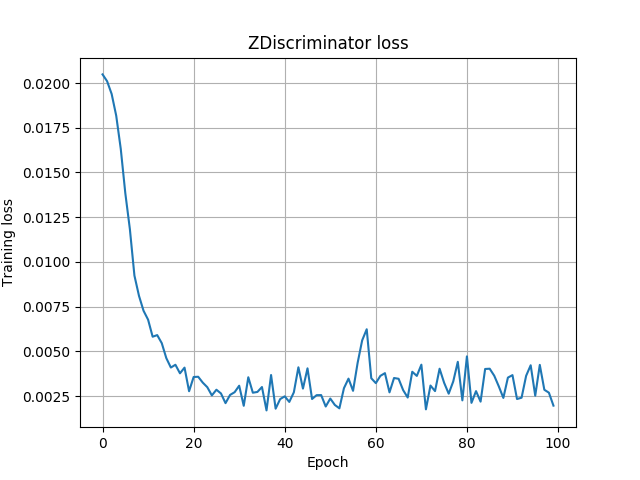
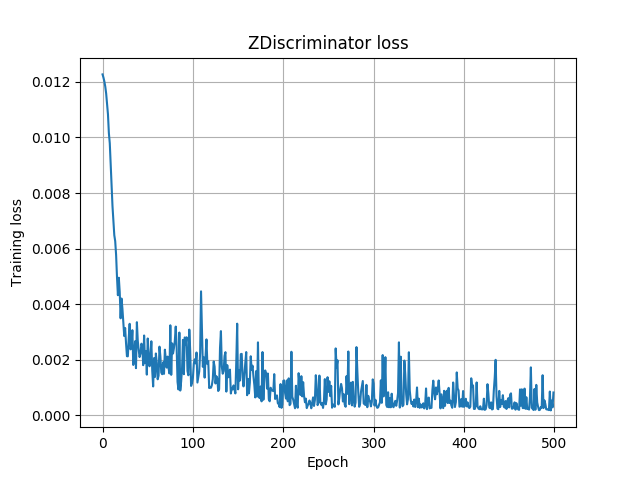
New debug

diff --git a/log/prosivic/debug/configuration.py b/log/prosivic/debug/configuration.py
@@ -33,10 +33,10 @@ class Configuration(object):
 
     # dataset specific options below
     if dataset == "prosivic":
-        training_mode = "GPND_default" # Options: "autoencoder", "GPND_default"
+        training_mode = ("autoencoder","GPND_default")[1] # Options: "autoencoder", "GPND_default"
         # Hyperparameters
         betas = (0.5,0.999) # adam solver standard is (0.5, 0.999), GPND standard is (0.9,0.999)
-        n_train_epochs = 100
+        n_train_epochs = 500
         n_epochs_between_lr_change = int(n_train_epochs * 1/2)
         lr_drop_factor = 10
         num_sample_epochs = 10
@@ -62,9 +62,9 @@ class Configuration(object):
         model_name = "_".join([inliers_name, architecture])
 
         batch_size = 64
-        test_batch_size = 16 # Jacobian computations require smaller batches
+        test_batch_size = 8 # Jacobian computations require smaller batches
         use_batchnorm = True
-        data_div = 50
+        data_div = 60
         n_train = 6785 // data_div
         n_val = 840 // data_div
         n_test = 500*2 // data_div # for GPND algorithm, the test set is split into val and test set during testing, since the valset contains outliers in order to compute an optimal threshold. This is used to compute some of the output values, but not AUPRIN or AUROC, which are threshold independent.
@@ -78,11 +78,11 @@ class Configuration(object):
 
 
     elif dataset == "dreyeve":
-        training_mode = "autoencoder"
+        training_mode = ("autoencoder","GPND_default")[1]
         architecture = "0_6_1_16_512_5_2_2"
         inliers_name = "sunny_highway"
         outliers_name = "rainy_highway"
-        n_dense_units = [256]
+        n_dense_units = None
         zd_n_layers = 3
         zd_out_units = [256,256,1]
 
@@ -98,15 +98,16 @@ class Configuration(object):
         n_train_epochs = 500
         n_epochs_between_lr_change = int(n_train_epochs * 1/2)
         lr_drop_factor = 10
-        num_sample_epochs = 5
+        num_sample_epochs = 10
         batch_size = 64
-        test_batch_size = 16 # Jacobian computations require smaller batches
-        lr_g = 0.002
-        lr_e = 0.002
-        lr_d = 0.002
-        lr_ge = 0.002
-        lr_zd = 0.002
-        rec_loss_weight = 10
+        test_batch_size = 8 # Jacobian computations require smaller batches
+        lr_g = 0.001
+        lr_e = 0.001
+        lr_d = 0.001
+        lr_ge = 0.001
+        lr_zd = 0.001
+        rec_loss_weight = 1
+        weight_g_loss = 1
 
         # Dataset options
         data_div = 1
@@ -121,7 +122,6 @@ class Configuration(object):
         test_in_folder =  "../weather_detection_data/dreyeve/sunny_highway_countryside_morning_evening_vs_rainy_highway_countryside_morning_evening/test/in/"
         test_out_folder = "../weather_detection_data/dreyeve/sunny_highway_countryside_morning_evening_vs_rainy_highway_countryside_morning_evening/test/out/"
 
-    
     elif dataset == "mnist":
         batch_size = 128
         test_batch_size = batch_size # Jacobian computations require smaller batches
@@ -145,6 +145,6 @@ class Configuration(object):
         out_filenames = loadbdd100k.get_namelist_from_file(out_file)
         norm_spec = [["weather", ["clear","partly cloudy", "overcast"]],["scene", "highway"],["timeofday", "daytime"]]
         out_spec = [["weather", ["rainy", "snowy", "foggy"]],["scene", "highway"],["timeofday",["daytime","dawn/dusk","night"]]]
-# Training logged at Fri, 14 Dec 2018 12:52:04 UTC
-# Total training time:	0h1m43.1s
-# Average time/epoch:	0m1.03s
+# Training logged at Tue, 18 Dec 2018 13:34:27 UTC
+# Total training time:	0h5m23.0s
+# Average time/epoch:	0m0.65s

diff --git a/configuration.py b/configuration.py
@@ -16,7 +16,7 @@ class Configuration(object):
     # H: pad
 
     dataset = "prosivic"
-    experiment_name = "GPND_common_architecture_181217"
+    experiment_name = "debug"
     log_dir = './log/' + dataset + '/' + experiment_name + '/'
     export_results = True
     # Diagnostics
@@ -64,7 +64,7 @@ class Configuration(object):
         batch_size = 64
         test_batch_size = 8 # Jacobian computations require smaller batches
         use_batchnorm = True
-        data_div = 1
+        data_div = 60
         n_train = 6785 // data_div
         n_val = 840 // data_div
         n_test = 500*2 // data_div # for GPND algorithm, the test set is split into val and test set during testing, since the valset contains outliers in order to compute an optimal threshold. This is used to compute some of the output values, but not AUPRIN or AUROC, which are threshold independent.
